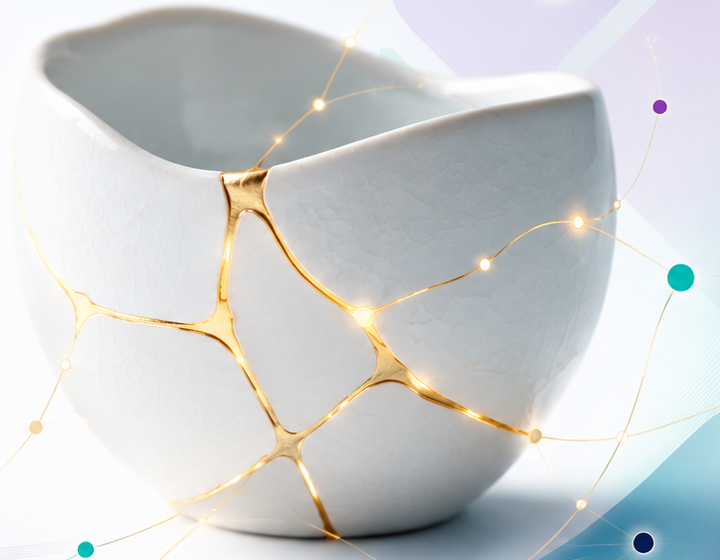
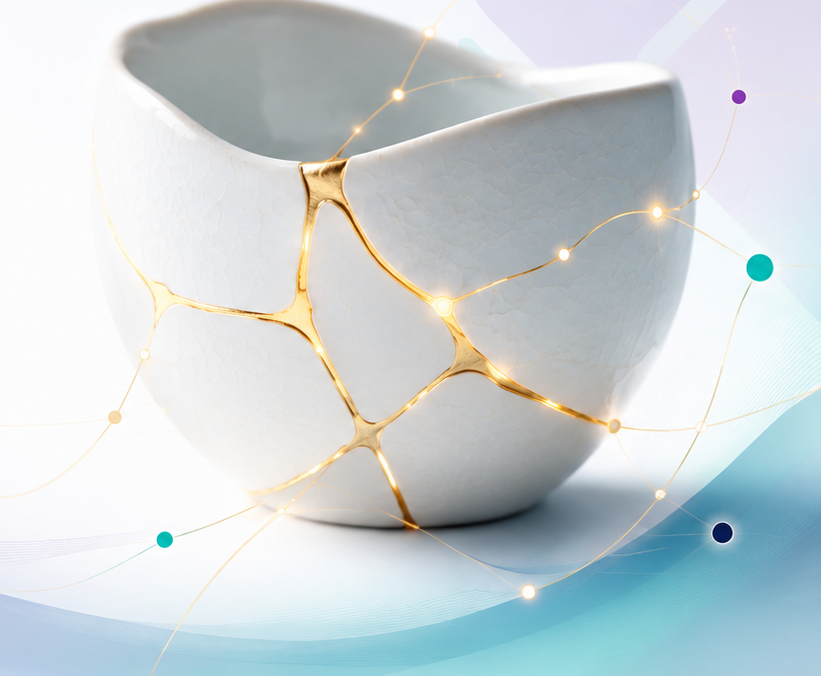
Zoom out About page photo, soften edge fade across all photos

diff --git a/assets/styles.css b/assets/styles.css
@@ -16,7 +16,7 @@ body { background:#fff; color:var(--navy); }
 .ticker-bar { position: relative; height: 2.25rem; overflow: hidden; }
 .ticker-track { position: absolute; top: 0; bottom: 0; left: 0; display: flex; align-items: center; width: max-content; animation: ticker-scroll 16s linear infinite; }
 .ticker-track:hover { animation-play-state: paused; }
-.img-fade { -webkit-mask-image: radial-gradient(ellipse 88% 88% at 50% 50%, #000 66%, transparent 100%); mask-image: radial-gradient(ellipse 88% 88% at 50% 50%, #000 66%, transparent 100%); }
+.img-fade { -webkit-mask-image: radial-gradient(ellipse 85% 85% at 50% 50%, #000 30%, transparent 92%); mask-image: radial-gradient(ellipse 85% 85% at 50% 50%, #000 30%, transparent 92%); }
 @keyframes ticker-scroll {
   0% { transform: translateX(100vw); }
   20% { transform: translateX(100vw); }